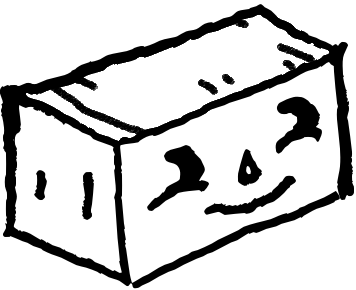
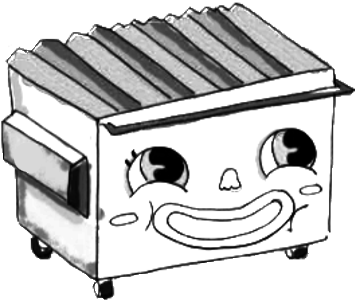
began replacing assets with artist sketches

diff --git a/pages/index.tsx b/pages/index.tsx
@@ -28,8 +28,8 @@ const Home: NextPage = () => {
   return (
     <>
       <Head>
-        <title>Create Next App</title>
-        <meta name="description" content="Generated by create next app" />
+        <title>Bin-web-concept</title>
+        <meta name="description" content="A developing web concept for Bin" />
         <link rel="icon" href="/favicon.ico" />
       </Head>
 

diff --git a/Components/Grid.tsx b/Components/Grid.tsx
@@ -34,9 +34,9 @@ const Grid = (
   }
 
   const actorCoords: any = {
-    g5: CreateActor(Bin),
+    f5: CreateActor(Bin),
     i9: CreateActor(JunkYardDude),
-    d6: CreateActor(Poster),
+    c6: CreateActor(Poster),
     e2: CreateActor(PetShopDoor),
   };
 

diff --git a/data/ActorDetails/Bin.ts b/data/ActorDetails/Bin.ts
@@ -5,7 +5,7 @@ export const Bin: actorDetails = {
   "id": "bin",
   "modal": "park",
   "imgUrl": "./mockup/bin.png",
-  "baseWidth": 356,
+  "baseWidth": 430,
   "baseHeight": 290,
   "map": {
     "name": "binMap",

diff --git a/styles/Grid.module.css b/styles/Grid.module.css
@@ -40,7 +40,8 @@ text-align: center;
 
 
 #dude {
-  bottom: -30px;
+  bottom: -30%;
+  left: 15%;
 }
 
 @keyframes bounce-7 {
